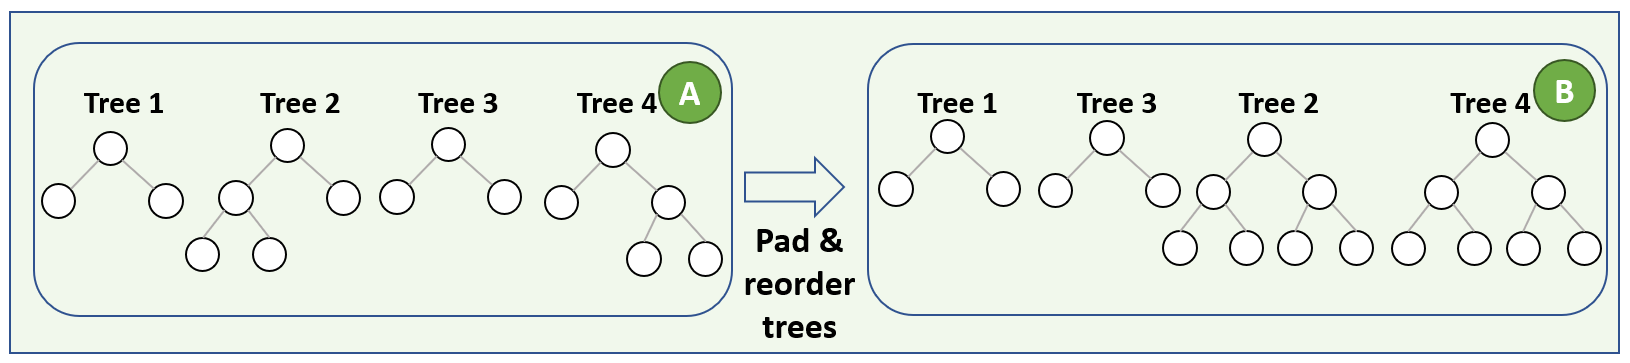
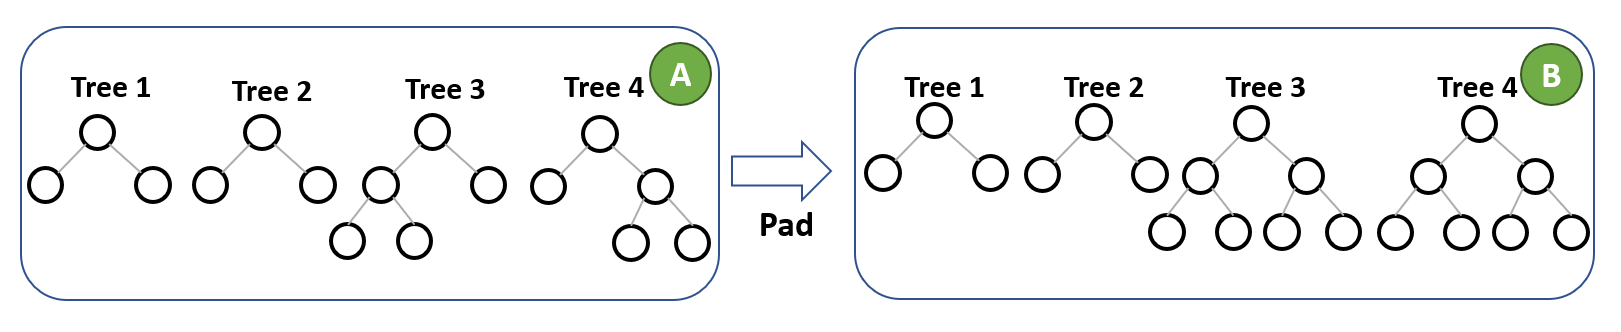
Edit figures and references

Changed region(s): [[0.0, 0.0301, 1.0, 0.9337], [0.0, 0.9639, 1.0, 0.994]]

diff --git a/docs/SOSP 2024/motivation.tex b/docs/SOSP 2024/motivation.tex
@@ -7,17 +7,16 @@ and subsequently, show the drastic performance difference across these variants 
 \begin{figure}[htb]
   \centering
   \includegraphics[width=\linewidth]{figures/HIR.PNG}
-  \caption{The representation of a model in high-level IR and the model 
-  after trees are padded and reordered.\TODO{drop reorder, make 1,2 depth 1 and 3,4 depth 2.} }
+  \caption{Model for motivating example. The model has four trees, two of depth 1 and two of depth 2.}
   \label{Fig:HIRExample}
 \end{figure}
 
 Consider a model with four trees, two 
-trees of depth 1 and two of depth 2 (Figure \ref{Fig:HIRExample}).
+trees of depth 1 and two of depth 2 (\circled{A} in Figure \ref{Fig:HIRExample}).
 % We use this model as our running example throughout this section.
 We first describe a simple schedule that processes one tree at a time 
 for all input rows. The scheduling constructs are fairly intuitive. We 
-defer a detailed explanation of the scheduling language to Section~\ref{sec:scheduling}. 
+defer a detailed explanation of the scheduling language to Section~\ref{sec:schedule}. 
 The loop over the trees is split into two -- one that
 iterates over the first two trees (Trees 1 and 2 with depth 1) and 
 the second that iterates over the last two trees (Trees 3 and 4 with
@@ -26,7 +25,8 @@ and involves branching to check if a leaf has been reached.
 One way to avoid this as done in this schedule is to unroll the 
 tree walks for each tree. 
 When the schedule specifies that the tree walks should be unrolled, 
-\Treebeard{} pads the trees so that all leaves are at the same depth (the padded trees are also shown in Figure~\ref{Fig:HIRExample}).
+\Treebeard{} pads the trees so that all leaves are at the same depth
+(\circled{B} in Figure~\ref{Fig:HIRExample}).
 
 \begin{lstlisting}[style=c++]
   reorder(tree, batch)
@@ -42,7 +42,7 @@ is as follows.
 \begin{lstlisting}[style=c++]
   model = ensemble(...)
   for t_depth1 = 0 to 2 step 1 {
-    T = getTree(ensemble, t_depth1)
+    T = getTree(model, t_depth1)
     for batch = 0 to BATCH_SIZE step 1 {
       treePred = walkDecisionTree(T, 
                     input[batch]) <unrollDepth = 1>
@@ -50,7 +50,7 @@ is as follows.
     }
   }
   for t_depth2 = 2 to 4 step 1 {
-    T = getTree(ensemble, t_depth2)
+    T = getTree(model, t_depth2)
     for batch = 0 to BATCH_SIZE step 1 {
       treePred = walkDecisionTree(T,
                     input[batch]) <unrollDepth = 2>
@@ -102,13 +102,13 @@ for each tree. The IR generated is as follows.
   par.for batch = 0 to BATCH_SIZE step 1 <grid.x> {
     par.for t1 = 0 to 2 step 1 <block.x> {
       for t0_depth1 = 0 to 2 step 2 {
-        T = getTree(ensemble, t0_depth1 + t1)
+        T = getTree(model, t0_depth1 + t1)
         treePred = walkDecisionTree(T, 
                         input[batch]) <unrollDepth = 1>
         reduce(result[batch], treePred)
       }
       for t0_depth2 = 2 to 4 step 2 {
-        T = getTree(ensemble, t0_depth2 + t1)
+        T = getTree(model, t0_depth2 + t1)
         treePred = walkDecisionTree(T,
                         input[batch]) <unrollDepth = 2>
         reduce(result[batch], treePred) <'+', 0.0>
@@ -158,7 +158,7 @@ and let the GPU manage the branching. The schedules with and
 without unrolling place different constraints on the target processor,
 and the best choice depends on the characteristics of the model
 and micro-architectural features like register file size, handling 
-of branch divergence etc.~\cite{FungMicro11, SomethingElse}.
+of branch divergence etc.~\cite{FungMicro, MilindDivergence}.
 
 % As is evident from these examples, it is possible to optimize 
 % the inference routine in different ways. Also, the structure of the loop 
